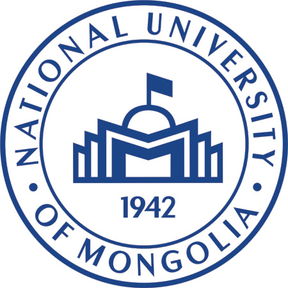
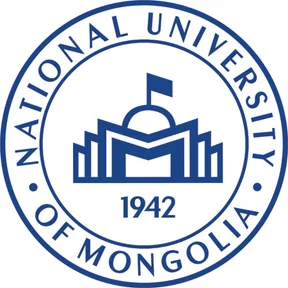
Reduce mobile startup work and compress remaining images

diff --git a/src/components/canvas/ParticleUniverse.jsx b/src/components/canvas/ParticleUniverse.jsx
@@ -158,18 +158,6 @@ export default function ParticleUniverse({ onResult }) {
     window.addEventListener('resize', size);
     size();
 
-    const logoSlot = document.querySelector('#home .hero-particle-space');
-    // Cache document coordinates when layout changes; scrolling only changes the viewport offset.
-    let logoRegion = null;
-    const slotObserver = new ResizeObserver(() => {
-      if (!logoSlot) return;
-      const rect = logoSlot.getBoundingClientRect();
-      logoRegion = { left: rect.left + window.scrollX, top: rect.top + window.scrollY, width: rect.width, height: rect.height };
-    });
-    if (logoSlot) {
-      slotObserver.observe(logoSlot);
-      slotObserver.observe(logoSlot.parentElement);
-    }
     let ti = 0;
     let go = false;
     let mx = 0;
@@ -217,11 +205,8 @@ export default function ParticleUniverse({ onResult }) {
       points.rotation.y += (targetRotY - points.rotation.y) * 0.05;
       points.rotation.x += (targetRotX - points.rotation.x) * 0.04;
       camera.position.z = compact ? 9 : 9 - Math.min(Math.abs(vel) * 0.05, 2);
-      const slot = compact && ti === 0 && document.documentElement.classList.contains('hero-in-view') && logoRegion
-        ? { ...logoRegion, left: logoRegion.left - window.scrollX, top: logoRegion.top - window.scrollY } : null;
-      const region = slot && slot.width > 0 && slot.height > 0 ? slot : undefined;
       const layout = particleLayout({ width: window.innerWidth, height: window.innerHeight,
-        fov: camera.fov, distance: compact ? camera.position.z : 9, shape: ti, bounds: shapeBounds[ti], region });
+        fov: camera.fov, distance: compact ? camera.position.z : 9, shape: ti, bounds: shapeBounds[ti] });
       points.scale.setScalar(layout.scale);
       // Resize immediately into the compact viewport; desktop movement remains eased.
       if (compact) points.position.set(layout.x, layout.y, 0);
@@ -238,7 +223,6 @@ export default function ParticleUniverse({ onResult }) {
       cancelAnimationFrame(raf);
       clearTimeout(startTimer);
       observer.disconnect();
-      slotObserver.disconnect();
       window.removeEventListener('resize', size);
       window.removeEventListener('pointermove', onPointer);
       scene.remove(points);

diff --git a/src/pages/Home/Loader.jsx b/src/pages/Home/Loader.jsx
@@ -1,15 +1,17 @@
 import { lazy, Suspense, useEffect, useState } from 'react';
 import reducedMotion from '../../hooks/reducedMotion';
+import useLightweightVisuals from '../../hooks/useLightweightVisuals';
 import './intro.css';
 const Logo3D = lazy(() => import('../../components/BrandLogo/Logo3D'));
 export default function Loader() {
-  const [visible, setVisible] = useState(() => !reducedMotion());
+  const lightweight = useLightweightVisuals();
+  const [visible, setVisible] = useState(() => !reducedMotion() && !window.matchMedia('(max-width:900px)').matches);
   useEffect(() => {
     if (!visible) return undefined;
     const timer = setTimeout(() => setVisible(false), 1800);
     return () => clearTimeout(timer);
   }, [visible]);
-  if (!visible) return null;
+  if (!visible || lightweight) return null;
   return <div className="site-intro" aria-hidden="true"><div className="site-intro-mark">
     <div className="site-intro-logo"><Suspense fallback={null}>
       <Logo3D variant="chrome" depth={0.45} interactive={false} autoRotate minHeight={0} zoom={1.25} />

diff --git a/src/pages/Home/Home.jsx b/src/pages/Home/Home.jsx
@@ -17,10 +17,12 @@ import Activities from './Activities';
 import Contact from './Contact';
 import LiveStrip from './LiveStrip';
 import '../../styles/home.css';
+import useLightweightVisuals from '../../hooks/useLightweightVisuals';
 
 const ParticleUniverse = lazy(() => import('../../components/canvas/ParticleUniverse'));
 
 export default function Home() {
+  const lightweight = useLightweightVisuals();
   const { t } = useLang();
   const [searchParams] = useSearchParams();
   const [glReady, setGlReady] = useState(null);
@@ -40,10 +42,10 @@ export default function Home() {
 
   return (
     <>
-      <Universe2D active={glReady === false} />
-      <Suspense fallback={null}>
+      <Universe2D active={!lightweight && glReady === false} />
+      {!lightweight && <Suspense fallback={null}>
         <ParticleUniverse onResult={setGlReady} />
-      </Suspense>
+      </Suspense>}
       <Loader />
       <ScrollProgress />
       <CursorGlow />

diff --git a/src/components/BrandLogo/BrandLogo.jsx b/src/components/BrandLogo/BrandLogo.jsx
@@ -1,15 +1,18 @@
 import { lazy, Suspense } from 'react';
 import './BrandLogo.css';
+import useLightweightVisuals from '../../hooks/useLightweightVisuals';
 
 const Logo3D = lazy(() => import('./Logo3D'));
 
 // Header-ийн зүүн дээд буланд байрлах 3D лого (хөдөлгөөнгүй) (өмнө нь magic-code-logo.png зураг байсан).
 export default function BrandLogo() {
+  const lightweight = useLightweightVisuals();
+  const fallback = <img className="brand-logo-static" src="/assets/contact-logo.svg" width="96" height="60" alt="" />;
   return (
     <span className="brand-logo3d" aria-hidden="true">
-      <Suspense fallback={null}>
+      {lightweight ? fallback : <Suspense fallback={fallback}>
         <Logo3D variant="chrome" depth={0.45} interactive={false} autoRotate={false} minHeight={0} zoom={1.5} />
-      </Suspense>
+      </Suspense>}
     </span>
   );
 }

diff --git a/src/components/ChatWidget/ChatWidget.tsx b/src/components/ChatWidget/ChatWidget.tsx
@@ -340,7 +340,7 @@ export default function ChatWidget({
           onClick={() => setOpen(true)}
           aria-label="Magi шидэт туслахыг нээх"
         >
-          <img src={avatarUrl} srcSet={avatarUrl === '/assets/chatbot-owl-96.webp' ? '/assets/chatbot-owl-96.webp 96w, /assets/chatbot-owl-192.webp 192w' : undefined} sizes="(max-width:480px) 64px, 76px" alt="" width="76" height="76" loading="eager" decoding="async" />
+          <img src={avatarUrl} srcSet={avatarUrl === '/assets/chatbot-owl-96.webp' ? '/assets/chatbot-owl-96.webp 96w, /assets/chatbot-owl-128.webp 128w, /assets/chatbot-owl-160.webp 160w, /assets/chatbot-owl-192.webp 192w' : undefined} sizes="(max-width:480px) 64px, 76px" alt="" width="76" height="76" loading="eager" fetchpriority="high" decoding="async" />
         </button>
       )}
     </div>

diff --git a/index.html b/index.html
@@ -7,6 +7,7 @@
     <title>Magic Code AI</title>
     <meta name="description" content="Magic Code AI (MCI) — технологийн сургалт, бизнест зориулсан вэб хөгжүүлэлт." />
     <!-- SEO:END -->
+    <link rel="preload" as="image" href="/assets/chatbot-owl-96.webp" imagesrcset="/assets/chatbot-owl-96.webp 96w, /assets/chatbot-owl-128.webp 128w, /assets/chatbot-owl-160.webp 160w, /assets/chatbot-owl-192.webp 192w" imagesizes="(max-width:480px) 64px, 76px" fetchpriority="high" />
     <link rel="preconnect" href="https://fonts.googleapis.com" />
     <link rel="preconnect" href="https://fonts.gstatic.com" crossorigin />
     <link href="https://fonts.googleapis.com/css2?family=Noto+Serif:wght@400;500;600&display=swap" rel="stylesheet" media="print" onload="this.media='all'" />

diff --git a/src/pages/Home/Hero/TechStrip.jsx b/src/pages/Home/Hero/TechStrip.jsx
@@ -34,7 +34,7 @@ export default function TechStrip() {
             <div key={group} className="tech-flow-group" aria-hidden={group ? true : undefined}>
               {visiblePartners.map((partner) => (
                 <div className="partner" key={partner.logo}>
-                  <div className={`partner-logo partner-logo--${partner.logo}`}><img {...partnerImage(partner.logo)} sizes="72px" alt="" width="72" height="72" loading="lazy" decoding="async" /></div>
+                  <div className={`partner-logo partner-logo--${partner.logo}`}><img {...partnerImage(partner.logo)} sizes="(max-width:640px) 46px, 72px" alt="" width="72" height="72" loading="lazy" decoding="async" /></div>
                   <span><Tr mn={partner.name} en={partner.en} /></span>
                 </div>
               ))}

diff --git a/src/styles/home.css b/src/styles/home.css
@@ -480,6 +480,9 @@ footer{background:transparent;border-top:0;padding-top:12px}
 
 /* Give the particle logo its own clear space on compact screens. */
 .hero-particle-space{display:none}
+.hero-mobile-mark{display:block;max-width:100%;width:400px;height:100%;object-fit:contain;margin:auto;animation:mobile-mark-sway 6s ease-in-out infinite}
+@keyframes mobile-mark-sway{50%{transform:translateY(-5px) rotate(1deg)}}
+@media(prefers-reduced-motion:reduce){#home .hero-particle-space{display:block;height:250px}.hero-mobile-mark{animation:none}}
 @media(max-width:900px){
   #home .hero-particle-space{display:block;width:100%;height:clamp(180px,30svh,280px);flex:0 0 auto}
   .hero-in-view.original-universe-ready #pg,.hero-in-view #universe{opacity:1;-webkit-mask-image:none;mask-image:none}

diff --git a/src/pages/Home/Hero/Hero.jsx b/src/pages/Home/Hero/Hero.jsx
@@ -45,7 +45,7 @@ export default function Hero() {
               en="Build skills in the technologies of tomorrow and find web development solutions for your business."
             />
           </p>
-          <div className="hero-particle-space" aria-hidden="true" />
+          <div className="hero-particle-space" aria-hidden="true"><img className="hero-mobile-mark" src="/assets/mobile-particle-logo.svg" width="400" height="250" alt="" /></div>
           <div className="actions">
             <a className="btn" href="#courses"><Tr mn="Сургалт үзэх" en="Explore courses" /></a>
             <a className="btn secondary" href="#activities"><Tr mn="Вэб захиалах" en="Order a website" /></a>

diff --git a/src/hooks/useLightweightVisuals.js b/src/hooks/useLightweightVisuals.js
@@ -1,0 +1,14 @@
+import { useEffect, useState } from 'react';
+
+const query = '(max-width:900px), (prefers-reduced-motion:reduce)';
+export default function useLightweightVisuals() {
+  const [lightweight, setLightweight] = useState(() => window.matchMedia(query).matches);
+  useEffect(() => {
+    const media = window.matchMedia(query);
+    const update = () => setLightweight(media.matches);
+    media.addEventListener('change', update);
+    update();
+    return () => media.removeEventListener('change', update);
+  }, []);
+  return lightweight;
+}

diff --git a/src/components/BrandLogo/BrandLogo.css b/src/components/BrandLogo/BrandLogo.css
@@ -1,2 +1,4 @@
 .brand-logo3d{display:block;width:96px;height:60px;flex-shrink:0}
+.brand-logo-static{display:block;width:100%;height:100%;object-fit:contain}
+:root[data-theme=dark] .brand-logo-static{filter:brightness(0) invert(1)}
 @media(max-width:720px){.brand-logo3d{width:80px;height:50px}}
